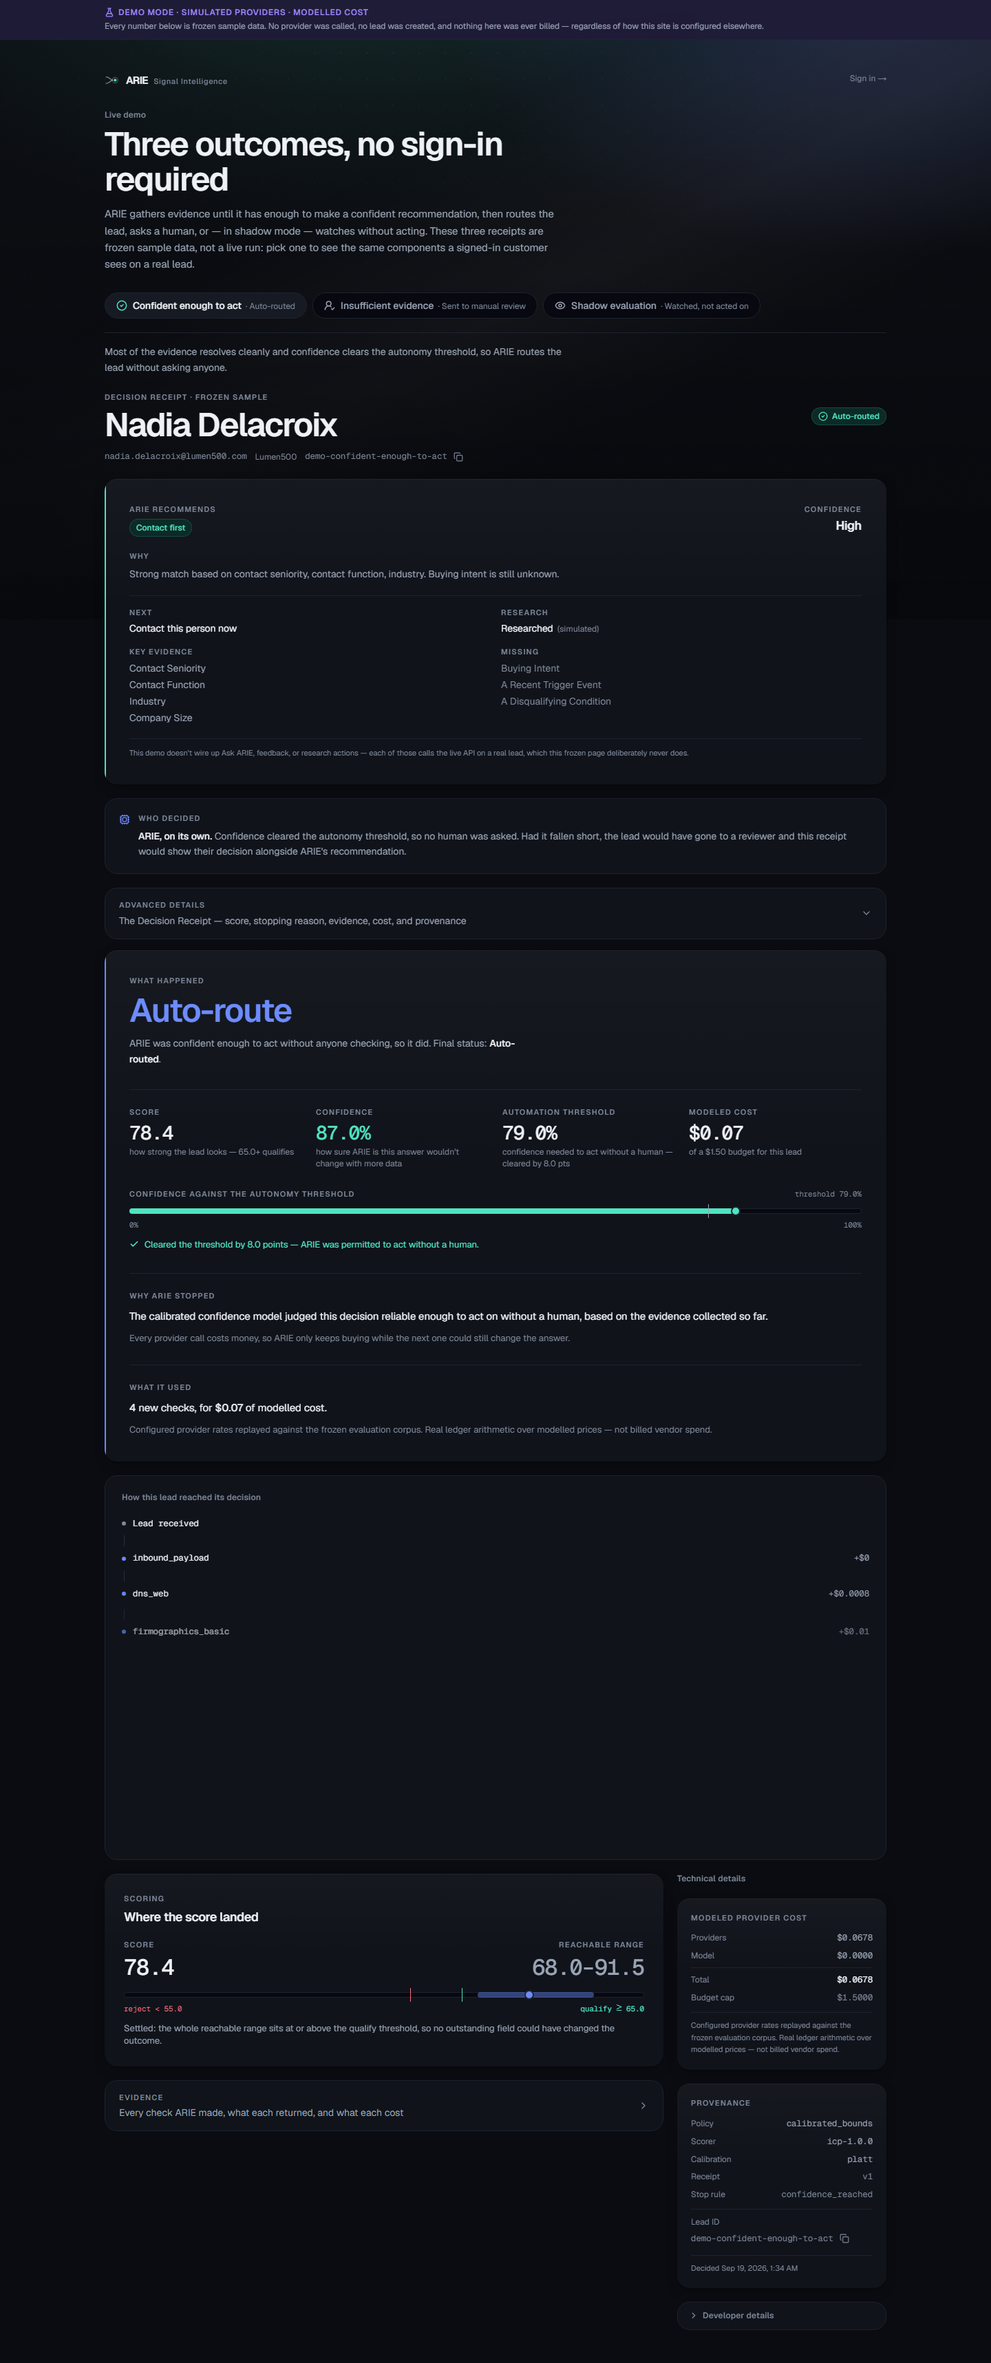
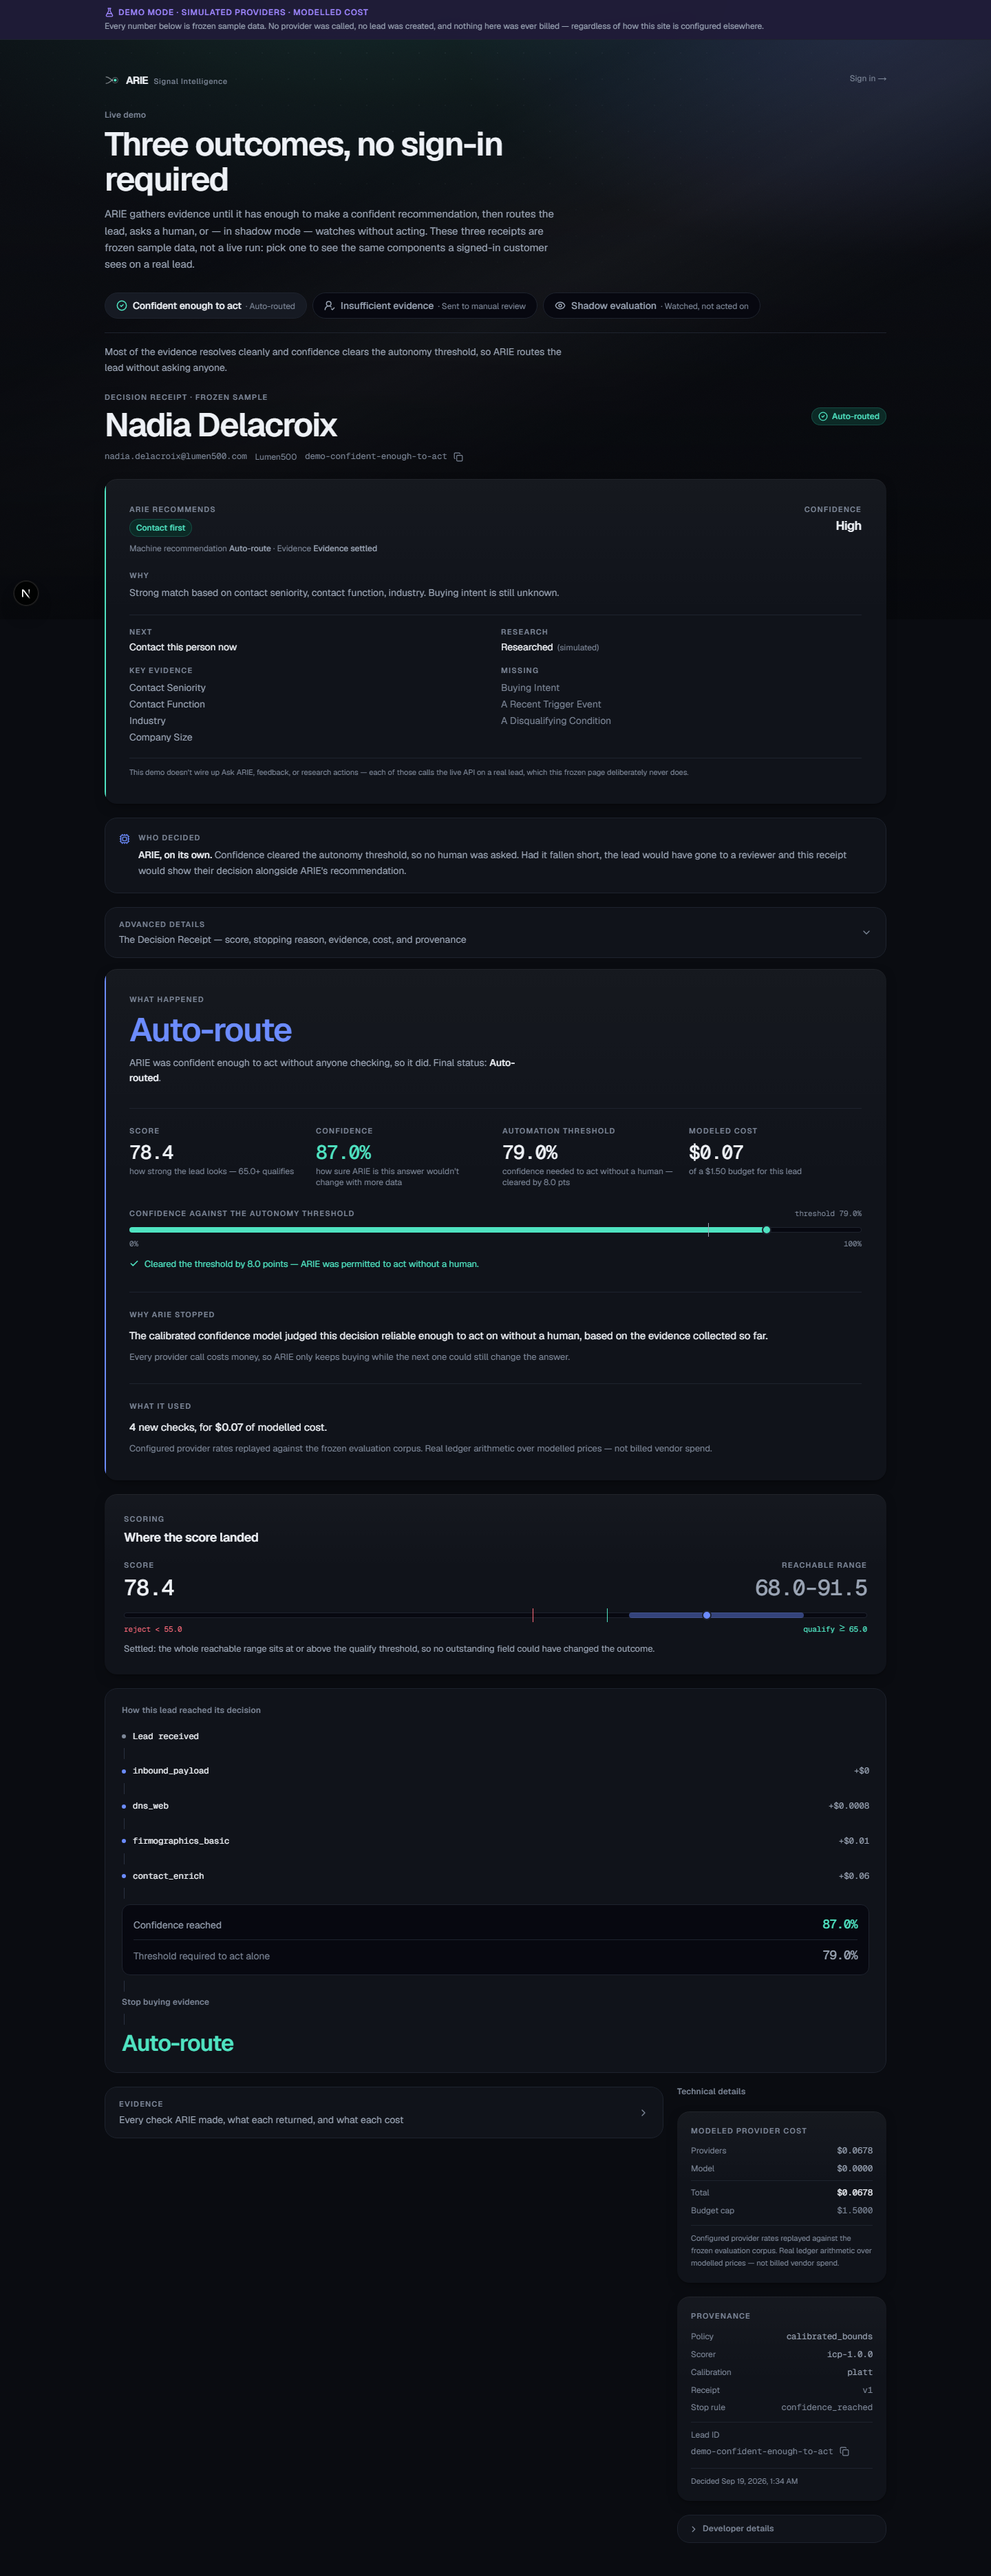
docs: refresh portfolio screenshots from the polished frontend UI
Screenshots regenerated against arie-decision-console's Phase A UI/UX
pass (receipt hierarchy reorder, machine-recommendation/evidence-
sufficiency/customer-priority now shown as three distinct facts, not
one collapsed badge):

- receipt-autonomous.png / receipt-insufficient-evidence.png: refreshed
  from the current /demo, replacing the pre-polish captures.
- ask-arie.png / find-customers.png: new -- added a compact secondary-
  surfaces pairing to the Engineering depth section, captioned to stay
  clearly subordinate to the core decision-loop narrative.
- demo-shadow.png: new, kept as an available asset (not inlined in the
  README, to avoid overfilling it) for external portfolio use.
- Removed console-overview.png, mobile-overview.png,
  receipt-human-override.png, receipt-shadow.png -- superseded, no
  longer referenced anywhere.

All four PNGs the README now references verified present on disk.

diff --git a/README.md b/README.md
@@ -232,6 +232,13 @@ Method, dataset design and every parameter assumption:
   from persisted state rather than re-derived, so a receipt from months ago
   still explains itself after the policy has moved on.
 
+Two of the surfaces this shows up in, beyond the core decision loop:
+
+| Ask ARIE | Find Customers |
+|---|---|
+| ![Ask ARIE answering "show my best leads" with a grounded list pulled from already-decided leads, not a chat completion](docs/assets/ask-arie.png) | ![Find Customers showing a populated opportunity list with a fit score, verified-website evidence, and a named contact per candidate](docs/assets/find-customers.png) |
+| Plain-English questions answered from what ARIE already decided — never a re-score. | Discovery Pivot: the same evidence discipline pointed upstream, screening candidates before spending. |
+
 ---
 
 ## MCP engineering interface
